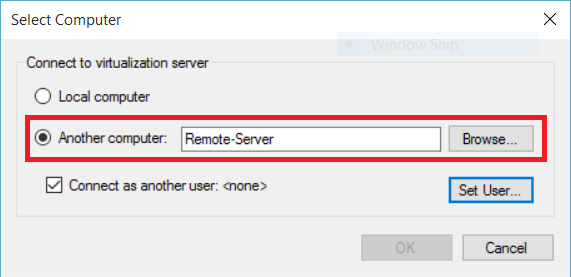
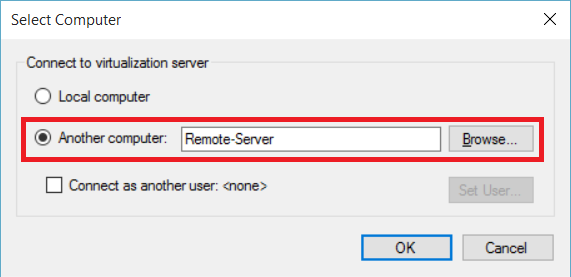
remote management changes

diff --git a/virtualization/hyperv_on_windows/user_guide/remote_host_management.md b/virtualization/hyperv_on_windows/user_guide/remote_host_management.md
@@ -33,13 +33,25 @@ Now you can connect to a remote Windows 10 or later host using either the host n
 
 In order to manage remote Hyper-V hosts, remote management must be enabled on both computers.
 
-You can do this through `System Properties -> Remote Management Settings` or through PowerShell.  
-To enable remote management in PowerShell, run the following as Administrator:
+You can do this through `System Properties -> Remote Management Settings` or by running the following PowerShell command as Administrator:  
 ``` PowerShell
 winrm quickconfig
 ```
 
+If your current user account matches a Hyper-V Administrator account on the remote host, go ahead and press **OK** to Connect.  
+
+This is the only supported way to manage a remote host in Hyper-V Manager in Windows 8 or Windows 8.1.
+
+### Connect to the remote host as a different user
+In Windows 10, if you are not running with the correct user account for the remote host, you can connect as another user with alternate credentials.
+
+To specify credentials for the remote Hyper-V host, select **Connect as another user: ** in the **Select Computer** dialogue box then select **Set User...**.
+
 ![](media/HyperVManager-ConnectToRemoteHostAltCreds.png)
+
+** *Note: **  It's very easy to forget to set the user and click OK with user `<none`>.  If your connection fails, make sure you actually did set the user.
+
+
 
 ### Managing a remote host in Windows 8 and Windows 8.1
 
